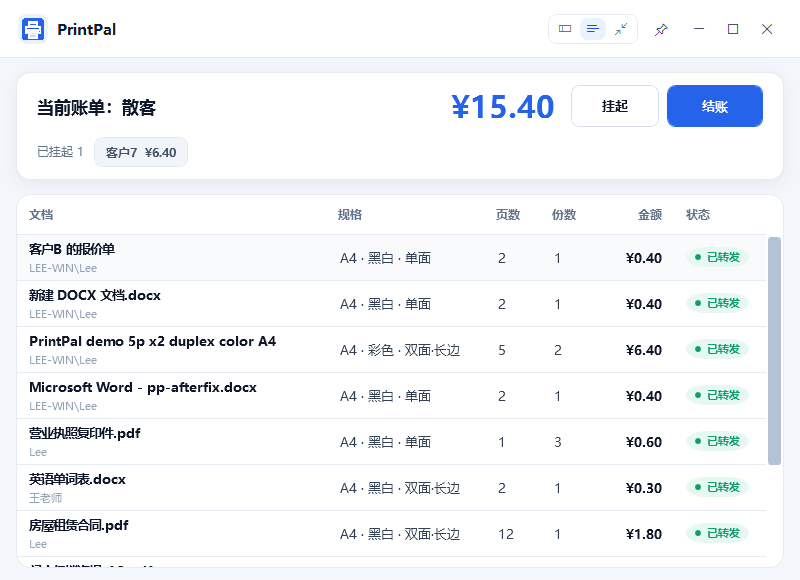
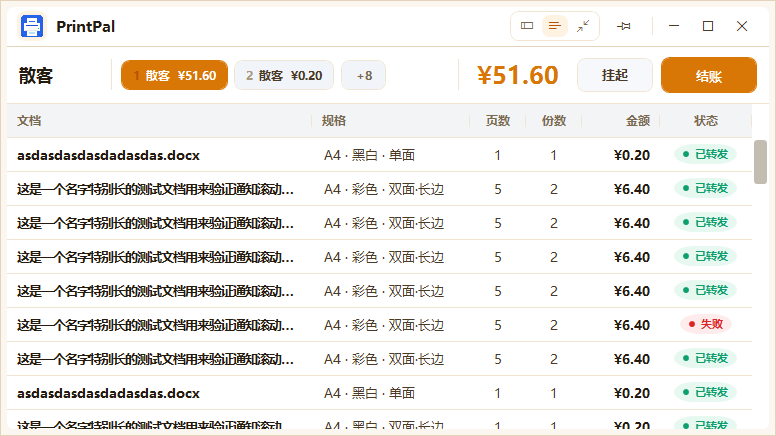
feat(ui): 紧凑模式改版：窗口边框、卡片分层与收银台视觉重心
- WindowFrame：Win10 给无边框窗口画 1px 描边（Win11 由 DWM 负责圆角+阴影，
  不重复画；最大化与极简模式也不画），修「紧凑模式贴在白底 APP 上看不出窗口边界」
- 紧凑模式卡片化：窗口底色改为页面背景色 + 6px 内缩白卡（上下圆角 6），
  标题栏 44→46px，标题栏/结账栏/表格用 1px 画框与发丝线分层
- 新增主题 token HeaderBarBrush（CardBrush + 中性灰混合，10 套主题自适应，
  不跟主题色相走），表头用它；行悬停统一为 HoverFillBrush
- 收银台视觉重心：金额 22→24px、结账 84×34→96×36 主按钮、挂起降级为次按钮、
  任务行高 30→34、金额列连同表头右对齐、模式/置顶与窗口按钮之间加竖分隔线
- 同步 docs/ui.md 第 10 节与截图 docs/images/ui-simple.png

diff --git a/src/PrintPal.App/MainWindow.xaml b/src/PrintPal.App/MainWindow.xaml
@@ -512,6 +512,13 @@
     </Window.Resources>
 
     <Grid x:Name="WindowRoot">
+        <!-- 窗口外框：Win10 没有 DWM 阴影/圆角，用 1px 描边给出清晰窗口边界；Win11 由 DWM 负责圆角+阴影，
+             这里不重复画，避免描边在圆角处被 DWM 裁掉。厚度由 MainWindow.xaml.cs 的 UpdateWindowFrame() 切换。 -->
+        <Border x:Name="WindowFrame"
+                BorderBrush="{DynamicResource LineStrongBrush}"
+                BorderThickness="0"
+                SnapsToDevicePixels="True">
+            <Grid x:Name="WindowFrameInner">
         <!-- ======================================================== FULL -->
         <Grid x:Name="FullLayout" Background="{DynamicResource SidebarBrush}">
             <Grid.ColumnDefinitions>
@@ -2403,14 +2410,20 @@
         </Grid>
 
         <!-- ======================================================== SIMPLE -->
-        <Grid x:Name="CompactLayout" Visibility="Collapsed" Background="{DynamicResource CardBrush}">
+        <Grid x:Name="CompactLayout" Visibility="Collapsed" Background="Transparent">
             <Grid.RowDefinitions>
-                <RowDefinition Height="44" />
+                <RowDefinition Height="46" />
                 <RowDefinition Height="Auto" />
                 <RowDefinition Height="*" />
             </Grid.RowDefinitions>
 
-            <Border Grid.Row="0" Background="{DynamicResource CardBrush}" BorderBrush="{DynamicResource LineBrush}" BorderThickness="0,0,0,1">
+            <!-- 标题栏：白底 + 强分隔线；四周留 6px 露出窗口灰边，顶部圆角跟随卡片 -->
+            <Border Grid.Row="0"
+                    Margin="6,6,6,0"
+                    Background="{DynamicResource CardBrush}"
+                    BorderBrush="{DynamicResource LineStrongBrush}"
+                    BorderThickness="0,0,0,1"
+                    CornerRadius="6,6,0,0">
                 <!-- 左距 10 与账单条内边距、表头文字内边距对齐；右距 10 与结账按钮右缘对齐 -->
                 <Grid Margin="10,0,10,0">
                     <Grid.ColumnDefinitions>
@@ -2470,6 +2483,12 @@
                                 ToolTip="置顶"
                                 WindowChrome.IsHitTestVisibleInChrome="True"
                                 Click="TopmostToggle_Click" />
+                        <!-- 与窗口按钮组分隔：模式/置顶属“应用功能”，最小化/最大化/关闭属“窗口控制” -->
+                        <Rectangle Width="1"
+                                   Height="18"
+                                   Margin="8,0,4,0"
+                                   VerticalAlignment="Center"
+                                   Fill="{DynamicResource LineBrush}" />
                         <Button Style="{StaticResource WindowControlButton}"
                                 Content="&#xE921;"
                                 WindowChrome.IsHitTestVisibleInChrome="True"
@@ -2492,8 +2511,13 @@
                 </Grid>
             </Border>
 
-            <!-- 账单条：平贴工具条（无卡片装饰），底部发丝线与任务表分隔 -->
-            <Border Grid.Row="1" Background="{DynamicResource CardBrush}" BorderBrush="{DynamicResource LineBrush}" BorderThickness="0,0,0,1" Padding="10,8">
+            <!-- 结账栏：白底 + 发丝线（与表头灰带、表格内容白底分层）；左右留 6px 灰边 -->
+            <Border Grid.Row="1"
+                    Margin="6,0,6,0"
+                    Background="{DynamicResource CardBrush}"
+                    BorderBrush="{DynamicResource LineBrush}"
+                    BorderThickness="0,0,0,1"
+                    Padding="12,10">
                 <Grid VerticalAlignment="Center">
                     <Grid.ColumnDefinitions>
                         <!-- MinWidth 给当前账单列留出余量，账单改名时列宽不再频繁跳动 -->
@@ -2567,30 +2591,36 @@
                             </Grid>
                         </Border>
 
+                        <!-- 金额 + 结账是收银台的视觉终点：金额放大、结账为主按钮、挂起降级为浅底次按钮 -->
                         <StackPanel Grid.Column="2" Orientation="Horizontal" VerticalAlignment="Center">
                             <TextBlock x:Name="CompactAmountText"
                                        Text="¥0.00"
-                                       FontSize="22"
+                                       FontSize="24"
                                        FontWeight="Bold"
                                        Foreground="{DynamicResource AccentBrush}"
                                        VerticalAlignment="Center"
-                                       Margin="0,0,14,0" />
+                                       Margin="0,0,18,0" />
                             <Button x:Name="CompactParkButton"
                                     Content="挂起"
+                                    Style="{StaticResource SubtleButton}"
                                     Height="34"
                                     Width="76"
-                                    Margin="0,0,6,0"
+                                    Margin="0,0,8,0"
                                     ToolTip="把当前账单挂起，并给下一位客户开一张新账单"
                                     Click="ParkBill_Click" />
                             <Button x:Name="CompactCheckoutButton"
-                                    Content="结账" Style="{StaticResource PrimaryButton}" Height="34" Width="84" Margin="0" Click="Checkout_Click" />
+                                    Content="结账" Style="{StaticResource PrimaryButton}" Height="36" Width="96" Margin="0" Click="Checkout_Click" />
                         </StackPanel>
                 </Grid>
             </Border>
 
-            <Border Grid.Row="2" Background="{DynamicResource CardBrush}">
+            <!-- 表格内容区：最亮的一档（CardBrush），底部圆角跟随卡片 -->
+            <Border Grid.Row="2"
+                    Margin="6,0,6,6"
+                    Background="{DynamicResource CardBrush}"
+                    CornerRadius="0,0,6,6">
                 <Grid>
-                    <DataGrid x:Name="CompactCashierGrid" Margin="0" RowHeight="30" ColumnHeaderHeight="34" HorizontalScrollBarVisibility="Auto"
+                    <DataGrid x:Name="CompactCashierGrid" Margin="0" RowHeight="34" ColumnHeaderHeight="34" HorizontalScrollBarVisibility="Auto"
                               PreviewMouseRightButtonUp="JobGrid_PreviewMouseRightButtonUp"
                               ContextMenu="{StaticResource JobContextMenu}">
                         <DataGrid.Columns>
@@ -2610,10 +2640,11 @@
                                     </Style>
                                 </DataGridTextColumn.ElementStyle>
                             </DataGridTextColumn>
-                            <DataGridTemplateColumn Header="金额" Width="78" MinWidth="44" HeaderStyle="{StaticResource CenterColumnHeaderStyle}">
+                            <!-- 金额右对齐：一列数字竖着扫才对得齐；表头同为右对齐 -->
+                            <DataGridTemplateColumn Header="金额" Width="78" MinWidth="44" HeaderStyle="{StaticResource AmountColumnHeaderStyle}">
                                 <DataGridTemplateColumn.CellTemplate>
                                     <DataTemplate>
-                                        <TextBlock Text="{Binding AmountText}" Style="{StaticResource AmountCellTextCenter}" />
+                                        <TextBlock Text="{Binding AmountText}" Style="{StaticResource AmountCellText}" />
                                     </DataTemplate>
                                 </DataGridTemplateColumn.CellTemplate>
                             </DataGridTemplateColumn>
@@ -2879,6 +2910,8 @@
                         </Grid>
                     </Border>
                 </Grid>
+            </Grid>
+        </Border>
             </Grid>
         </Border>
     </Grid>

diff --git a/src/PrintPal.App/Themes/Theme.xaml b/src/PrintPal.App/Themes/Theme.xaml
@@ -32,6 +32,9 @@
     <SolidColorBrush x:Key="SidebarIndicatorBrush" Color="#FFFFFF" />
     <SolidColorBrush x:Key="InsetBackgroundBrush" Color="#F8FAFC" />
     <SolidColorBrush x:Key="InsetBorderBrush" Color="#EDF1F7" />
+    <!-- 表格表头色带：中性灰（实际值由 ThemeManager.Make() 按 CardBrush + 中性灰混合算出，
+         这里只是兜底默认），避免表头也套主题色相导致整屏发绿/发蓝。 -->
+    <SolidColorBrush x:Key="HeaderBarBrush" Color="#F6F8FA" />
     <SolidColorBrush x:Key="SubtleButtonBackgroundBrush" Color="#F6F8FC" />
     <SolidColorBrush x:Key="GhostHoverBrush" Color="#EEF4FF" />
     <SolidColorBrush x:Key="ScrollThumbBrush" Color="#B4C2D6" />
@@ -526,7 +529,7 @@
 
     <!-- ============================================================ data grid -->
     <Style x:Key="GridColumnHeaderStyle" TargetType="DataGridColumnHeader">
-        <Setter Property="Background" Value="Transparent" />
+        <Setter Property="Background" Value="{DynamicResource HeaderBarBrush}" />
         <Setter Property="Foreground" Value="{DynamicResource MutedBrush}" />
         <Setter Property="FontSize" Value="11.5" />
         <Setter Property="FontWeight" Value="SemiBold" />
@@ -649,7 +652,7 @@
                     <Setter Property="FocusVisualStyle" Value="{x:Null}" />
                     <Style.Triggers>
                         <Trigger Property="IsMouseOver" Value="True">
-                            <Setter Property="Background" Value="{DynamicResource InsetBackgroundBrush}" />
+                            <Setter Property="Background" Value="{DynamicResource HoverFillBrush}" />
                         </Trigger>
                         <Trigger Property="IsSelected" Value="True">
                             <Setter Property="Background" Value="{DynamicResource AccentSoftBrush}" />

diff --git a/src/PrintPal.App/MainWindow.xaml.cs b/src/PrintPal.App/MainWindow.xaml.cs
@@ -187,6 +187,7 @@ public partial class MainWindow : Window
             }
 
             UpdateMaximizeGlyph();
+            UpdateWindowFrame();
         };
         LocationChanged += (_, _) => SaveModePosition();
 
@@ -2784,6 +2785,7 @@ public partial class MainWindow : Window
             Topmost = await GetBoolSettingAsync(TopmostKey(mode), mode == UiMode.Minimal);
             UpdateTopmostButtons();
             UpdateMaximizeGlyph();
+            UpdateWindowFrame();
             if (persist)
             {
                 await SaveSettingAsync("uiMode", mode.ToString());
@@ -2806,6 +2808,17 @@ public partial class MainWindow : Window
         chrome.CaptionHeight = captionHeight;
         chrome.ResizeBorderThickness = new Thickness(resizeBorder);
         chrome.UseAeroCaptionButtons = false;
+    }
+
+    // 窗口外框：Win10 没有 DWM 阴影/圆角，用 1px 描边给出清晰窗口边界；
+    // Win11 由 DWM 负责圆角+阴影，再描边会在圆角处被裁掉，所以不画。
+    // 最大化贴边、以及极简模式（自绘深色圆角卡片）也不需要外框。
+    private void UpdateWindowFrame()
+    {
+        var drawFrame = _mode != UiMode.Minimal
+            && WindowState != WindowState.Maximized
+            && !OperatingSystem.IsWindowsVersionAtLeast(10, 0, 22000);
+        WindowFrame.BorderThickness = drawFrame ? new Thickness(1) : new Thickness(0);
     }
 
     /// <summary>窗口移动/缩放后防抖保存边界（500ms 静止后落库），任意时刻退出都能恢复最新位置。</summary>

diff --git a/src/PrintPal.App/Themes/ThemeManager.cs b/src/PrintPal.App/Themes/ThemeManager.cs
@@ -19,6 +19,10 @@ public static class ThemeManager
 {
     public const string DefaultKey = "blue";
 
+    // 结构性色带用的中性灰：浅色主题偏冷灰、深色主题偏浅灰，保证色带不带主题色相。
+    private static readonly Color NeutralBand = Color.FromRgb(0x64, 0x74, 0x8B);
+    private static readonly Color NeutralBandDark = Color.FromRgb(0x94, 0xA3, 0xB8);
+
     private static readonly Dictionary<string, string> LightBase = new(StringComparer.OrdinalIgnoreCase)
     {
         ["AccentBrush"] = "#2563EB",
@@ -286,6 +290,11 @@ public static class ThemeManager
         colors["ScrollThumbBrush"] = Blend(colors["CardBrush"], colors["MutedBrush"], 0.45);
         colors["ScrollThumbHoverBrush"] = Blend(colors["CardBrush"], colors["MutedBrush"], 0.65);
         colors["ScrollThumbPressedBrush"] = Blend(colors["CardBrush"], colors["MutedBrush"], 0.85);
+
+        // 表格表头用一档中性灰（不跟主题色相走，避免色带都套同一色相显得发“脏”）；
+        // 标题栏 / 结账栏 / 表格内容都保持 CardBrush，靠 1px 外框 + 6px 灰边 + 发丝线分层。
+        var band = isDark ? NeutralBandDark : NeutralBand;
+        colors["HeaderBarBrush"] = Blend(colors["CardBrush"], band, 0.08);
 
         return new ThemeDefinition(key, name, isDark, colors);
     }

diff --git a/docs/ui.md b/docs/ui.md
@@ -220,10 +220,16 @@ powershell.exe -NoProfile -ExecutionPolicy Bypass -File .\scripts\Install-PrintP
 
 ![紧凑模式](images/ui-simple.png)
 
-- 顶部：品牌 + 完整/紧凑/极简图标按钮组、置顶、窗口按钮；标题栏空白处可拖动窗口（高 44）。
-- 贴边紧凑布局：账单条（`当前账单`、`未结账单` 切换条、`本单合计` 金额、`挂起`、`结账` 单行展示，
-  无小字标题）与任务表直接贴边，用发丝线分隔；无未结账单时列表隐藏。
-- 列表：文档（不显示主机名、行高 30）、规格、页数、份数、金额、状态；默认窗口 776×436。
+- 顶部：品牌 + 完整/紧凑/极简图标按钮组、置顶、窗口按钮；「模式/置顶」与窗口按钮之间有一条
+  竖分隔线；标题栏空白处可拖动窗口（高 46）。
+- **卡片化布局**：整窗底色为页面背景色，内容是一张 6px 内缩的白卡（上下圆角 6），
+  标题栏 / 结账栏 / 表格之间用发丝线分层；Win10 上窗口四周再加 1px 描边
+  （Win11 交给 DWM 的圆角+阴影，不重复画；最大化与极简模式也不画），
+  这样即使贴在白底窗口上也能看清窗口边界。
+- 结账栏单行展示 `当前账单`、未结账单 chip、`本单合计`、`挂起`、`结账`：金额 24px 是视觉重点，
+  `结账` 为主按钮（96×36），`挂起` 为浅底次按钮；无未结账单时 chip 区隐藏。
+- 列表：文档（不显示主机名、行高 34）、规格、页数、份数、金额（右对齐）、状态；
+  表头用中性灰色带（`HeaderBarBrush`，不跟主题色相走），行悬停浅色；默认窗口 776×436。
 - 适合前台快速查看；不显示配置页和打印详情面板。
 
 ---

diff --git a/docs/CHANGELOG.md b/docs/CHANGELOG.md
@@ -4,6 +4,24 @@
 
 ---
 
+## 2026-11-09 — 紧凑模式界面改版（窗口边界 / 卡片分层 / 收银台视觉重心）
+
+- **窗口边界**：新增 `WindowFrame`（`MainWindow.xaml`）。Win10 上给无边框窗口画 1px 描边，
+  Win11 由 DWM 负责圆角+阴影所以不重复画（最大化、极简模式也不画），
+  解决「紧凑模式放在白底 APP 上看不出窗口边界」的问题。厚度由 `UpdateWindowFrame()` 按
+  OS / 模式 / 最大化状态切换。
+- **卡片化**：紧凑模式窗口底色改为页面背景色，内容是一张 6px 内缩的白卡（上下圆角 6），
+  标题栏 44→46px；标题栏 / 结账栏 / 表格用 1px 画框与发丝线分层。
+- **表头色带**：新增主题 token `HeaderBarBrush`（`CardBrush` + 中性灰混合，10 套主题自动适配，
+  不跟主题色相走，避免整屏同色发“脏”），`GridColumnHeaderStyle` 改用它；行悬停统一为
+  `HoverFillBrush`。
+- **收银台视觉重心**：金额 22→24px、与按钮间距 14→18px；`结账` 84×34→96×36 主按钮，
+  `挂起` 降级为 `SubtleButton`；任务行高 30→34；金额列连同表头改右对齐；
+  「模式/置顶」与窗口按钮之间加竖分隔线。
+- 同步 `docs/ui.md` 第 10 节与截图 `docs/images/ui-simple.png`。
+
+---
+
 ## 2026-11-08 — 文档校正：开发启动时 UI 日志位置
 
 - `printpal-dev-env` skill 的环境表原文写「服务模式 UI 日志仍在 `%LOCALAPPDATA%\PrintPal\logs\app.log`」，
